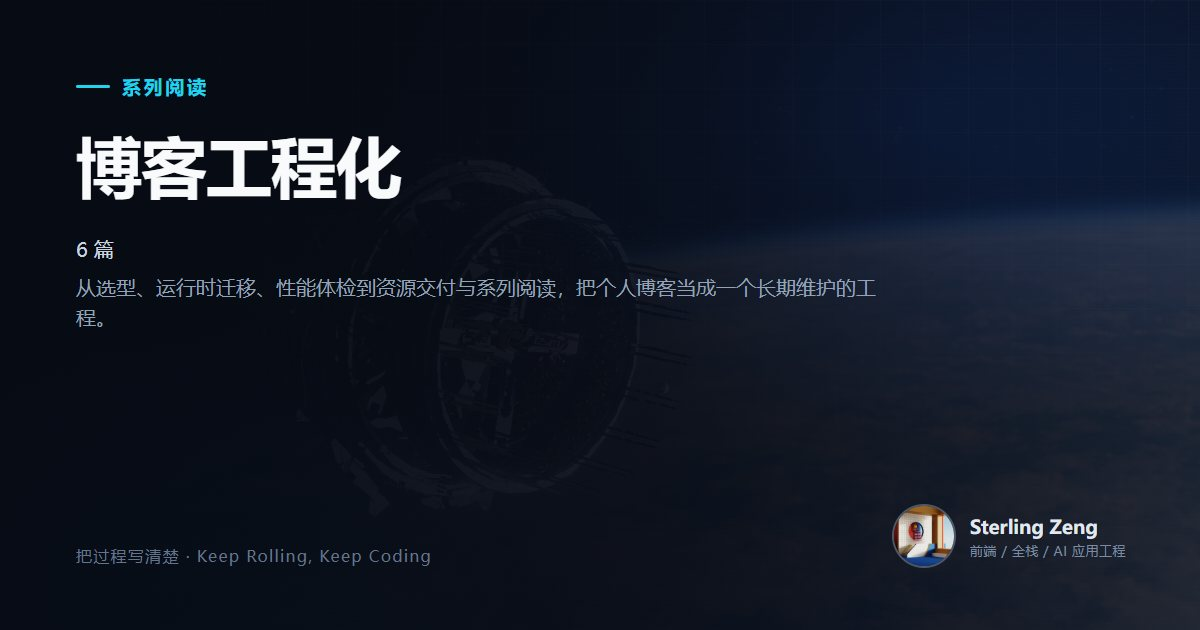
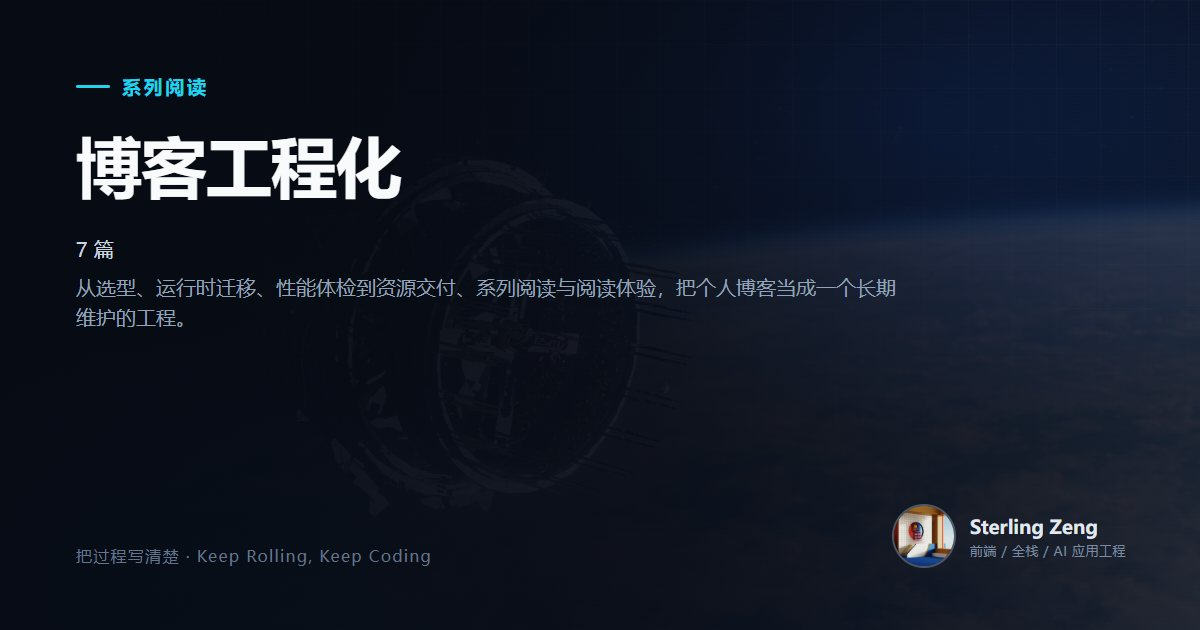
content: publish reading-experience article and refresh series counts
- add blog-engineering #7 covering margin notes, previews, citation, backlinks, reading settings and shortcuts; the series is now 7 posts and the series article notes 23/15
- regenerate OG cards for the new post, the renamed series post and the updated series description
- refresh series/feed assertions and stabilize the Live2D pet check (34/34 on three consecutive runs)

diff --git a/test/series-check.js b/test/series-check.js
@@ -73,8 +73,8 @@ function check(name, cond, extra) {
   }));
   check('系列页标题', series.h1 === '博客工程化', series.h1);
   check('系列简介非空', series.desc.length > 8, series.desc);
-  check('系列页 6 篇', series.items.length === 6, String(series.items.length));
-  check('顺序按 series_order', series.items.map(i => i.idx).join(',') === '01,02,03,04,05,06', JSON.stringify(series.items.map(i => i.idx)));
+  check('系列页 7 篇', series.items.length === 7, String(series.items.length));
+  check('顺序按 series_order', series.items.map(i => i.idx).join(',') === '01,02,03,04,05,06,07', JSON.stringify(series.items.map(i => i.idx)));
   check('第一项是建站文章', series.items[0]?.href === '/2026/05/08/hexo-blog-setup-guide/', JSON.stringify(series.items[0]));
   check('系列页显示日期分类', series.items.every(i => /2026-\d\d-\d\d/.test(i.meta)), JSON.stringify(series.items.map(i => i.meta)));
   check('返回全部系列', series.back === '/series/', series.back);
@@ -93,7 +93,7 @@ function check(name, cond, extra) {
     };
   });
   check('系列 Atom 可访问且合法', feed.status === 200 && !feed.error, JSON.stringify(feed));
-  check('系列 Atom 含 6 篇文章', feed.entries === 6, String(feed.entries));
+  check('系列 Atom 含 7 篇文章', feed.entries === 7, String(feed.entries));
   check('系列页声明 Atom feed', feed.head && feed.self.includes('/series/blog-engineering/atom.xml'), JSON.stringify(feed));
 
   console.log('=== 2.5 归档页系列入口 ===');
@@ -150,17 +150,17 @@ function check(name, cond, extra) {
     };
   });
   check('文章有系列徽章', article.badge, JSON.stringify(article));
-  check('徽章显示第 3/6 篇', article.badgeCount === '第 3 篇 / 共 6 篇', article.badgeCount);
+  check('徽章显示第 3/7 篇', article.badgeCount === '第 3 篇 / 共 7 篇', article.badgeCount);
   check('徽章链接到系列页', article.badgeHref === SERIES, article.badgeHref);
   check('徽章在正文之前', article.badgeBeforeContent);
   check('文章有系列卡', article.card);
-  check('系列卡进度 50%', article.cardCount.includes('50%'), article.cardCount);
+  check('系列卡进度 43%', article.cardCount.includes('43%'), article.cardCount);
   check('当前项已标记', article.current.includes('当前') && article.currentAria === 'page', JSON.stringify(article.current));
-  check('系列列表 6 项', article.listCount === 6, String(article.listCount));
+  check('系列列表 7 项', article.listCount === 7, String(article.listCount));
   check('上一篇指向 Live2D 文章', article.prevHref === PREV && article.prevRel === 'prev', JSON.stringify({ href: article.prevHref, rel: article.prevRel }));
   check('下一篇指向系列第 4 篇（资源交付）', article.nextTag === 'A' && article.nextHref === '/2026/10/23/responsive-banner-live2d-texture/', JSON.stringify({ tag: article.nextTag, href: article.nextHref }));
   check('原生 details 折叠', article.details);
-  check('进度条 50%', article.progress === '50%', article.progress);
+  check('进度条 43%', article.progress === '43%', article.progress);
   check('系列卡在相关阅读之前', article.seriesBeforeRelated, JSON.stringify({ related: article.seriesBeforeRelated }));
   check('文章无横向溢出', article.overflow <= 2, String(article.overflow));
 
@@ -176,7 +176,7 @@ function check(name, cond, extra) {
     overflow: document.documentElement.scrollWidth - innerWidth,
   }));
   check('SPA 进入系列页', spa.path === '/series/blog-engineering/' && spa.h1 === '博客工程化', JSON.stringify(spa));
-  check('SPA 后系列列表存在', spa.items === 6, String(spa.items));
+  check('SPA 后系列列表存在', spa.items === 7, String(spa.items));
   check('SPA 后无横向溢出', spa.overflow <= 2, String(spa.overflow));
   await page.goBack().catch(() => {});
   await page.waitForFunction(() => location.pathname === '/2026/10/22/font-subset-and-cls/' && !!document.querySelector('.post-series-badge'), { timeout: 10000 }).catch(() => {});
@@ -199,7 +199,7 @@ function check(name, cond, extra) {
       prev: document.querySelector('.post-series-prev')?.tagName || '',
       prevText: document.querySelector('.post-series-prev')?.textContent.replace(/\s+/g, ' ').trim() || '',
     }));
-    check('系列首篇显示第 1 篇', first.count === '第 1 篇 / 共 6 篇', first.count);
+    check('系列首篇显示第 1 篇', first.count === '第 1 篇 / 共 7 篇', first.count);
     check('系列首篇上一篇禁用', first.prev === 'SPAN' && first.prevText.includes('已是第一篇'), JSON.stringify(first));
   } else {
     check('系列列表可点击', false, '未找到列表链接');

diff --git a/test/assets-check.js b/test/assets-check.js
@@ -187,7 +187,7 @@ function check(name, cond, extra) {
     } catch (e) { return { ok: false, types: [] }; }
   });
   check('系列页有 CollectionPage JSON-LD', seriesLd.ok && seriesLd.types.includes('CollectionPage'), JSON.stringify(seriesLd));
-  check('系列页 JSON-LD 列出 6 篇文章', seriesLd.parts === 6, JSON.stringify(seriesLd));
+  check('系列页 JSON-LD 列出 7 篇文章', seriesLd.parts === 7, JSON.stringify(seriesLd));
   const ogUrl = await page.evaluate(() => ({
     og: document.querySelector('meta[property="og:url"]')?.content || '',
     canonical: document.querySelector('link[rel="canonical"]')?.href || '',
@@ -252,7 +252,7 @@ function check(name, cond, extra) {
     };
   });
   check('站点 JSON Feed 可解析且为 1.1', feeds.siteStatus === 200 && feeds.siteVersion === 'https://jsonfeed.org/version/1.1', JSON.stringify(feeds));
-  check('站点 JSON Feed 收录 22 篇文章', feeds.siteItems === 22, String(feeds.siteItems));
+  check('站点 JSON Feed 收录 23 篇文章', feeds.siteItems === 23, String(feeds.siteItems));
   check('JSON Feed 内 URL 全部绝对化', feeds.allAbsolute, 'relative url found');
   check('系列 JSON Feed 收录 3 篇文章', feeds.seriesStatus === 200 && feeds.seriesItems === 3, JSON.stringify(feeds));
 

diff --git a/test/e2e-test.js b/test/e2e-test.js
@@ -115,8 +115,13 @@ function check(name, cond, extra) {
   console.log('=== 5. Live2D 宠物（显式召唤） ===');
   const petToggle = await page.$('#pet-toggle');
   check('默认不自动加载,显示召唤按钮', !!petToggle);
-  if (petToggle) await petToggle.click();
-  await page.waitForSelector('#waifu', { timeout: 15000 }).catch(() => {});
+  if (petToggle) {
+    // 模型初始化会等滚动停止 1.2s;先把页面稳定在顶部,再用 DOM click 避开浮动播放器遮挡
+    await page.evaluate(() => window.scrollTo(0, 0));
+    await new Promise(r => setTimeout(r, 1500));
+    await petToggle.evaluate(el => el.click());
+  }
+  await page.waitForSelector('#waifu', { timeout: 25000 }).catch(() => {});
   const waifu = await page.$('#waifu');
   check('waifu 容器存在', !!waifu);
   if (waifu) {

diff --git a/source/_posts/reading-experience-as-features.md b/source/_posts/reading-experience-as-features.md
@@ -1,0 +1,91 @@
+---
+title: 读完一篇长文，不该被打断——把边注、引用和反向链接做进静态博客
+date: 2026-10-24 21:30:00
+categories:
+  - 前端开发
+tags:
+  - 性能优化
+  - Hexo
+  - 博客
+description: 边注、链接预览、引用和反向链接看起来是四件事，落到静态博客里是同一个约束：不发请求、不打断阅读，还要在 Swup 换页后保持正确。这是这一轮阅读体验改造的记录。
+cover: /images/cover-design.webp
+series: blog-engineering
+series_order: 7
+---
+
+读到一半点开脚注，回来找不到原来的句子。想确认一个陌生名词，要开新标签页。文章底部写着相关阅读，但那只是标签相似，不是有人真的引用过。
+
+三个场景，都是长文的常见断点。博客是静态的，站内跳转用 Swup，只替换 `#swup`。我想要的效果不是多几个弹窗，而是这些上下文能在当前位置出现，并且不增加首屏请求。
+
+## 先把约束写清楚
+
+- 构建产物部署在 GitHub Pages，没有常驻服务端。
+- Swup 换页只替换 `#swup`，`<head>` 不会重新加载。
+- 首屏不为这些功能让路，能构建期完成的不放到运行时。
+- 所有交互要能用键盘完成，`Esc` 要能退出。
+
+上一轮做[静态资源清理](/2026/10/23/static-assets-cleanup/)时，把首屏从 33MB 压到 22MB；这一轮不想为了几个阅读功能把请求加回去。
+
+后面的每个功能，都是在这四条约束里找解。
+
+## 边注：构建期生成，宽屏进页边
+
+边注的语法是一个 Hexo 标签：
+
+```markdown
+{% margin %}212px 是注释列宽，235px 是 1680px 下正文左侧的可用页边。{% endmargin %}
+```
+
+构建时把标签内容按 Markdown 渲染，输出一个引用标记和一条注释。注释不是弹窗，是一段真实的 DOM，只是默认不占正文宽度。
+
+宽屏阈值是量出来的：1680px 时正文宽 957px，左侧页边 235px；1440px 时正文左侧只剩 143px。注释列需要 212px，所以只在 ≥1680px 时浮进页边，窄屏改成点击 ※ 打开的底部卡片。{% margin %}212px 是注释列宽，235px 是 1680px 下正文左侧的可用页边，两者相减剩下的 23px 是间距。{% endmargin %}
+
+底部卡片有一个容易忽略的问题：正文祖先带着 Swup 入场动画的 `transform`，`position: fixed` 会相对这个祖先定位，而不是视口。卡片的解法是把它挂到 `body` 上，和边注、预览卡用同一套思路。打开时焦点进入关闭按钮，`Esc` 收起后焦点回到引用。
+
+## 链接预览和脚注预览：只在需要时出现
+
+站内链接的预览数据在构建期生成：32 条记录，约 10KB，gzip 后 4KB。第一次悬停才会请求，之后复用。
+
+桌面端悬停 300ms 才显示，卡片固定在视口内，`pointer-events: none`，不会挡住鼠标。它是 `role="tooltip"`，不进入 Tab 顺序。触屏设备不接管点击，直接跳转。
+
+脚注预览复用构建期的 `#fn-*`，悬停或键盘聚焦时把正文克隆到小卡片里，点击引用仍然跳到文末。两者都不发新请求。
+
+## 引用与反向链接：把“被别人引用”变成构建期索引
+
+引用元数据放在静态 HTML 的 head 里：`citation_title`、`citation_author`、`citation_publication_date` 等，供 Google Scholar 一类服务抓取。
+
+侧栏的分享按钮改成了菜单，可以复制 Markdown、BibTeX、APA、GB/T 7714、RIS 和链接。菜单读的是正文里的 JSON，不是 head。原因前面写过：Swup 只替换 `#swup`，head 不会跟着换页更新；如果读 head，第二篇文章会复制到第一篇的引用。
+
+反向链接是另一个方向：不是“这篇文章引用了谁”，而是“谁引用了这篇文章”。构建期扫描所有文章的正文内链，在目标文章底部列出最多 5 条来源和引用处的上下文。当前 23 篇文章里有 18 篇至少被引用一次，没有来源的文章不渲染空区块。
+
+这里踩过一个构建期问题：解码 HTML 实体时，`&#x110000;` 这种超出 Unicode 范围的码点会让 `String.fromCodePoint` 抛错，整个文章页渲染失败。现在先校验码点范围，非法实体原样保留；反向链接索引也在每次 `generate` 前重置，`hexo server` 下不会一直用旧数据。
+
+## 阅读设置：在首屏前应用
+
+文章多的站需要目录，也需要[系列阅读](/2026/10/23/hexo-series-reading-path/)；系列解决的是“按什么顺序读”，阅读设置解决的是单篇读起来舒不舒服。
+
+字号有三档，专注模式会收起目录和相关阅读、把正文限制在 860px 并居中。设置存在 localStorage，但真正难的是首屏：如果等脚本执行完再改字号，页面会先按 16px 排一遍，再跳一次。
+
+解法是 head 里一段内联脚本，在首屏绘制前把 `data-read-size` 和 `cj-focus` 写到 `<html>` 上；CSS 直接按属性生效，没有第二次布局。窄屏没有侧栏，左下角的 Aa 按钮打开底部设置卡，和引用按钮上下排开。
+
+## 一个被测量否决的方案
+
+这轮还认真评估了按页拆 CSS/JS。Chrome coverage 的数字很诱人：custom.css 单页只用到 14%–30%，custom.js 29%–40%。
+
+但 Swup 只替换 `#swup`。按页注入到 `<head>` 的样式表，首次打开有效，站内跳转后不会加载。正确做法是把 `<link>` 放进被替换的正文，或者加运行时 loader；前者会闪烁，后者要处理加载顺序和重复执行。收益大约 8–10KB gzip/页，抵不过这两项成本，所以暂时不做。
+
+同一轮还统一了导航胶囊和文章卡片的材质。滚动收缩后的胶囊原来有独立的 `backdrop-filter` 和另一种底色，和下面的卡片像两种玻璃；现在两者使用同一个背景变量和同一条描边，模糊都关掉。
+
+## 结果
+
+| 指标 | 结果 |
+|---|---|
+| 浏览器检查 | 442 项（其中阅读功能 84 项） |
+| axe-core | 桌面/移动端 0 违规 |
+| 首屏新增请求 | 0；链接预览在第一次悬停时取 1 个 JSON 和 1 张封面 |
+| 部署产物 | 约 21MB |
+| 反向链接 | 23 篇中 18 篇有至少一条来源 |
+
+这些功能没有一个是新页面。它们只是把已有的信息放到读者需要的位置：边注放在页边，引用放在菜单里，反向链接放在文末，阅读设置放在首屏之前。
+
+下一次要处理的是 Cloudflare 的缓存规则和图片查看器的手势，不是再加一个弹层。

diff --git a/docs/ENGINEERING.md b/docs/ENGINEERING.md
@@ -82,7 +82,7 @@ test/                    12 套 Puppeteer / Node 检查
 | FontAwesome CSS | 65KB 类名子集（原 4 个文件约 200KB） |
 | 移除的脚本 | moment 375KB（essays 页改用 Intl） |
 | 首屏请求（首页） | 58 个；search.xml / APlayer 不在首屏请求 |
-| 部署产物 | 22MB（含 31 张 OG 卡；移除全量 webfonts / source map / 重复 js/libs 后，原 33MB+） |
+| 部署产物 | 约 21MB（含 32 张 OG 卡；移除全量 webfonts / source map / 重复 js/libs 后，原 33MB+） |
 | Live2D | 默认 0 请求；用户点击“召唤宠物”后才加载模型，选择记入 localStorage |
 
 ### 关键取舍
@@ -113,7 +113,7 @@ test/                    12 套 Puppeteer / Node 检查
 
 内链预览只在 `(hover: hover) and (pointer: fine)` 且宽度 ≥1024px 时启用；移动端点击直接跳转。脚注和预览卡都支持 `focusin`，键盘 Tab 到引用时同样显示。
 
-引用元数据放在静态 HTML 的 head 里，服务爬虫和首屏；引用菜单实际读的是正文里的 JSON，因为 Swup 只替换 `#swup`，head 不会随换页更新。反向链接只扫描每篇文章的渲染正文（`post.content`），不把导航、相关阅读、系列卡算进去；当前 22 篇里有 17 篇至少被引用一次，没有来源的文章不渲染空区块。
+引用元数据放在静态 HTML 的 head 里，服务爬虫和首屏；引用菜单实际读的是正文里的 JSON，因为 Swup 只替换 `#swup`，head 不会随换页更新。反向链接只扫描每篇文章的渲染正文（`post.content`），不把导航、相关阅读、系列卡算进去；当前 23 篇里有 18 篇至少被引用一次，没有来源的文章不渲染空区块。
 
 ## 6. 无障碍
 
@@ -147,10 +147,10 @@ test/                    12 套 Puppeteer / Node 检查
 | `test:features` | 84 | 边注、内链预览、公式复制、脚注预览、阅读设置、引用菜单、反向链接、键盘快捷键 |
 | `test:resume` | 7 | 阅读位置记忆与继续阅读 |
 | `test:archive` | 16 | 归档热力图与移动端 |
-| `test:content` | 22 篇 | front matter、站内链接、图片、OG 卡、文风硬规则 |
-| `test:links` | 99 HTML | 构建产物站内 href 断链检查 |
+| `test:content` | 23 篇 | front matter、站内链接、图片、OG 卡、文风硬规则 |
+| `test:links` | 100 HTML | 构建产物站内 href 断链检查 |
 
-合计 442 项浏览器检查、22 篇文章的内容检查和 99 个 HTML 的内链检查。所有套件在本机通过；CI 目前只跑不依赖浏览器的 `test:content`。
+合计 442 项浏览器检查、23 篇文章的内容检查和 100 个 HTML 的内链检查。所有套件在本机通过；CI 目前只跑不依赖浏览器的 `test:content`。
 
 ## 8. 已知边界
 

diff --git a/source/_posts/hexo-series-reading-path.md b/source/_posts/hexo-series-reading-path.md
@@ -1,7 +1,7 @@
 ---
-title: 22 篇文章，14 篇在系列里：给博客加一条阅读路径
+title: 23 篇文章，15 篇在系列里：给博客加一条阅读路径
 date: 2026-10-23 00:00:00
-updated: 2026-10-24 00:30:00
+updated: 2026-10-24 21:30:00
 categories:
   - 前端开发
 tags:
@@ -9,13 +9,13 @@ tags:
   - 博客
   - SEO
   - 可访问性
-description: 22 篇文章里只有 14 篇能顺着读。给 Hexo 加一套构建期生成的系列阅读：front matter 约定、系列页、文章徽章、Atom 订阅和结构化数据，运行时不发一个请求。
+description: 23 篇文章里只有 15 篇能顺着读。给 Hexo 加一套构建期生成的系列阅读：front matter 约定、系列页、文章徽章、Atom 订阅和结构化数据，运行时不发一个请求。
 cover: /images/cover-tech.webp
 series: blog-engineering
 series_order: 6
 ---
 
-博客有 22 篇文章。其中 14 篇分属四个系列，剩下 8 篇是单篇。
+博客有 23 篇文章。其中 15 篇分属四个系列，剩下 8 篇是单篇。
 
 问题出在读完一篇之后。读者看完《我做了一个 RAG 知识库系统》，不知道还有《MindPilot》和《DocMind 消融实验》；看完《博客左下角的大肥鱼》，也不知道后面还有一次字体子集和 CLS 的体检。分类回答“这是什么”，标签回答“涉及什么”，都不回答“下一篇读什么”。
 
@@ -97,11 +97,13 @@ blog-engineering:
 
 ## 数字
 
-- 22 篇文章，14 篇进入系列，8 篇单篇。
-- 4 个系列：博客工程化 6 篇、Agent 与 RAG 3 篇、前端基础 3 篇、量化研究 2 篇。
+- 23 篇文章，15 篇进入系列，8 篇单篇。
+- 4 个系列：博客工程化 7 篇、Agent 与 RAG 3 篇、前端基础 3 篇、量化研究 2 篇。
 - 系列相关浏览器检查 53 项，覆盖系列页、徽章、系列卡、Atom、归档入口、SPA 和移动端。
 - 系列页和系列卡运行时 JS：0 行。
 
-回到开头：8 篇单篇仍然没有阅读路径。系列没有解决所有文章的发现问题，它只解决了“确实存在顺序”的那 14 篇。剩下的，应该由相关阅读和站内链接去补。
+回到开头：8 篇单篇仍然没有阅读路径。系列没有解决所有文章的发现问题，它只解决了“确实存在顺序”的那 15 篇。剩下的，应该由相关阅读和站内链接去补。
+
+这一轮之后，系列又长了一篇：[读完一篇长文，不该被打断](/2026/10/24/reading-experience-as-features/)。它接在《33MB 到 22MB》后面，讲的是阅读体验。
 
 [^cls]: 本地 Chrome 1440×900，用 PerformanceObserver 统计 layout-shift，取页面加载后 5 秒内的累计值。

diff --git a/docs/BACKLOG.md b/docs/BACKLOG.md
@@ -12,9 +12,10 @@
 - **公式复制**：块级公式右上角出现 TeX 按钮，读取 MathML `annotation` 的源码写入剪贴板。
 - **阅读设置**：侧栏三档字号 + 专注模式（隐藏目录/相关阅读、正文居中、Esc 或底部按钮退出）；≤880px 用左下角 Aa 打开底部设置卡。head 内联脚本在首屏前应用，刷新不闪字号。
 - **引用与分享**：head 输出 `citation_title` / `citation_author` / `citation_publication_date` 等 Highwire 元数据；侧栏分享按钮改为菜单，可复制 Markdown 引用、BibTeX、APA 和链接；引用 JSON 放在正文里，Swup 换页后自动更新。
-- **反向链接**：构建期扫描 22 篇文章的正文内链，在目标文章底部列出“引用本文的文章”和引用处上下文；17 篇有至少一条来源，没有来源的文章不渲染空区块。
+- **反向链接**：构建期扫描 23 篇文章的正文内链，在目标文章底部列出“引用本文的文章”和引用处上下文；18 篇有至少一条来源，没有来源的文章不渲染空区块。
 - **键盘快捷键**：`?` 打开原生 `<dialog>` 快捷键面板；`t` 切换明暗主题；`g h` / `g a` 快速回首页/归档；输入框聚焦或弹层打开时不触发。
-- **测试**：新增 `test:features`，目前 84 项；浏览器检查合计 442 项，22 篇内容检查，99 个 HTML 内链检查。
+- **新文章**：《读完一篇长文，不该被打断》进入博客工程化系列第 7 篇，记录边注、预览、引用、反向链接、阅读设置和快捷键，以及按页拆包被测量否决的原因。
+- **测试**：新增 `test:features`，目前 84 项；浏览器检查合计 442 项，23 篇内容检查，100 个 HTML 内链检查。
 
 ## 这一轮已完成
 
